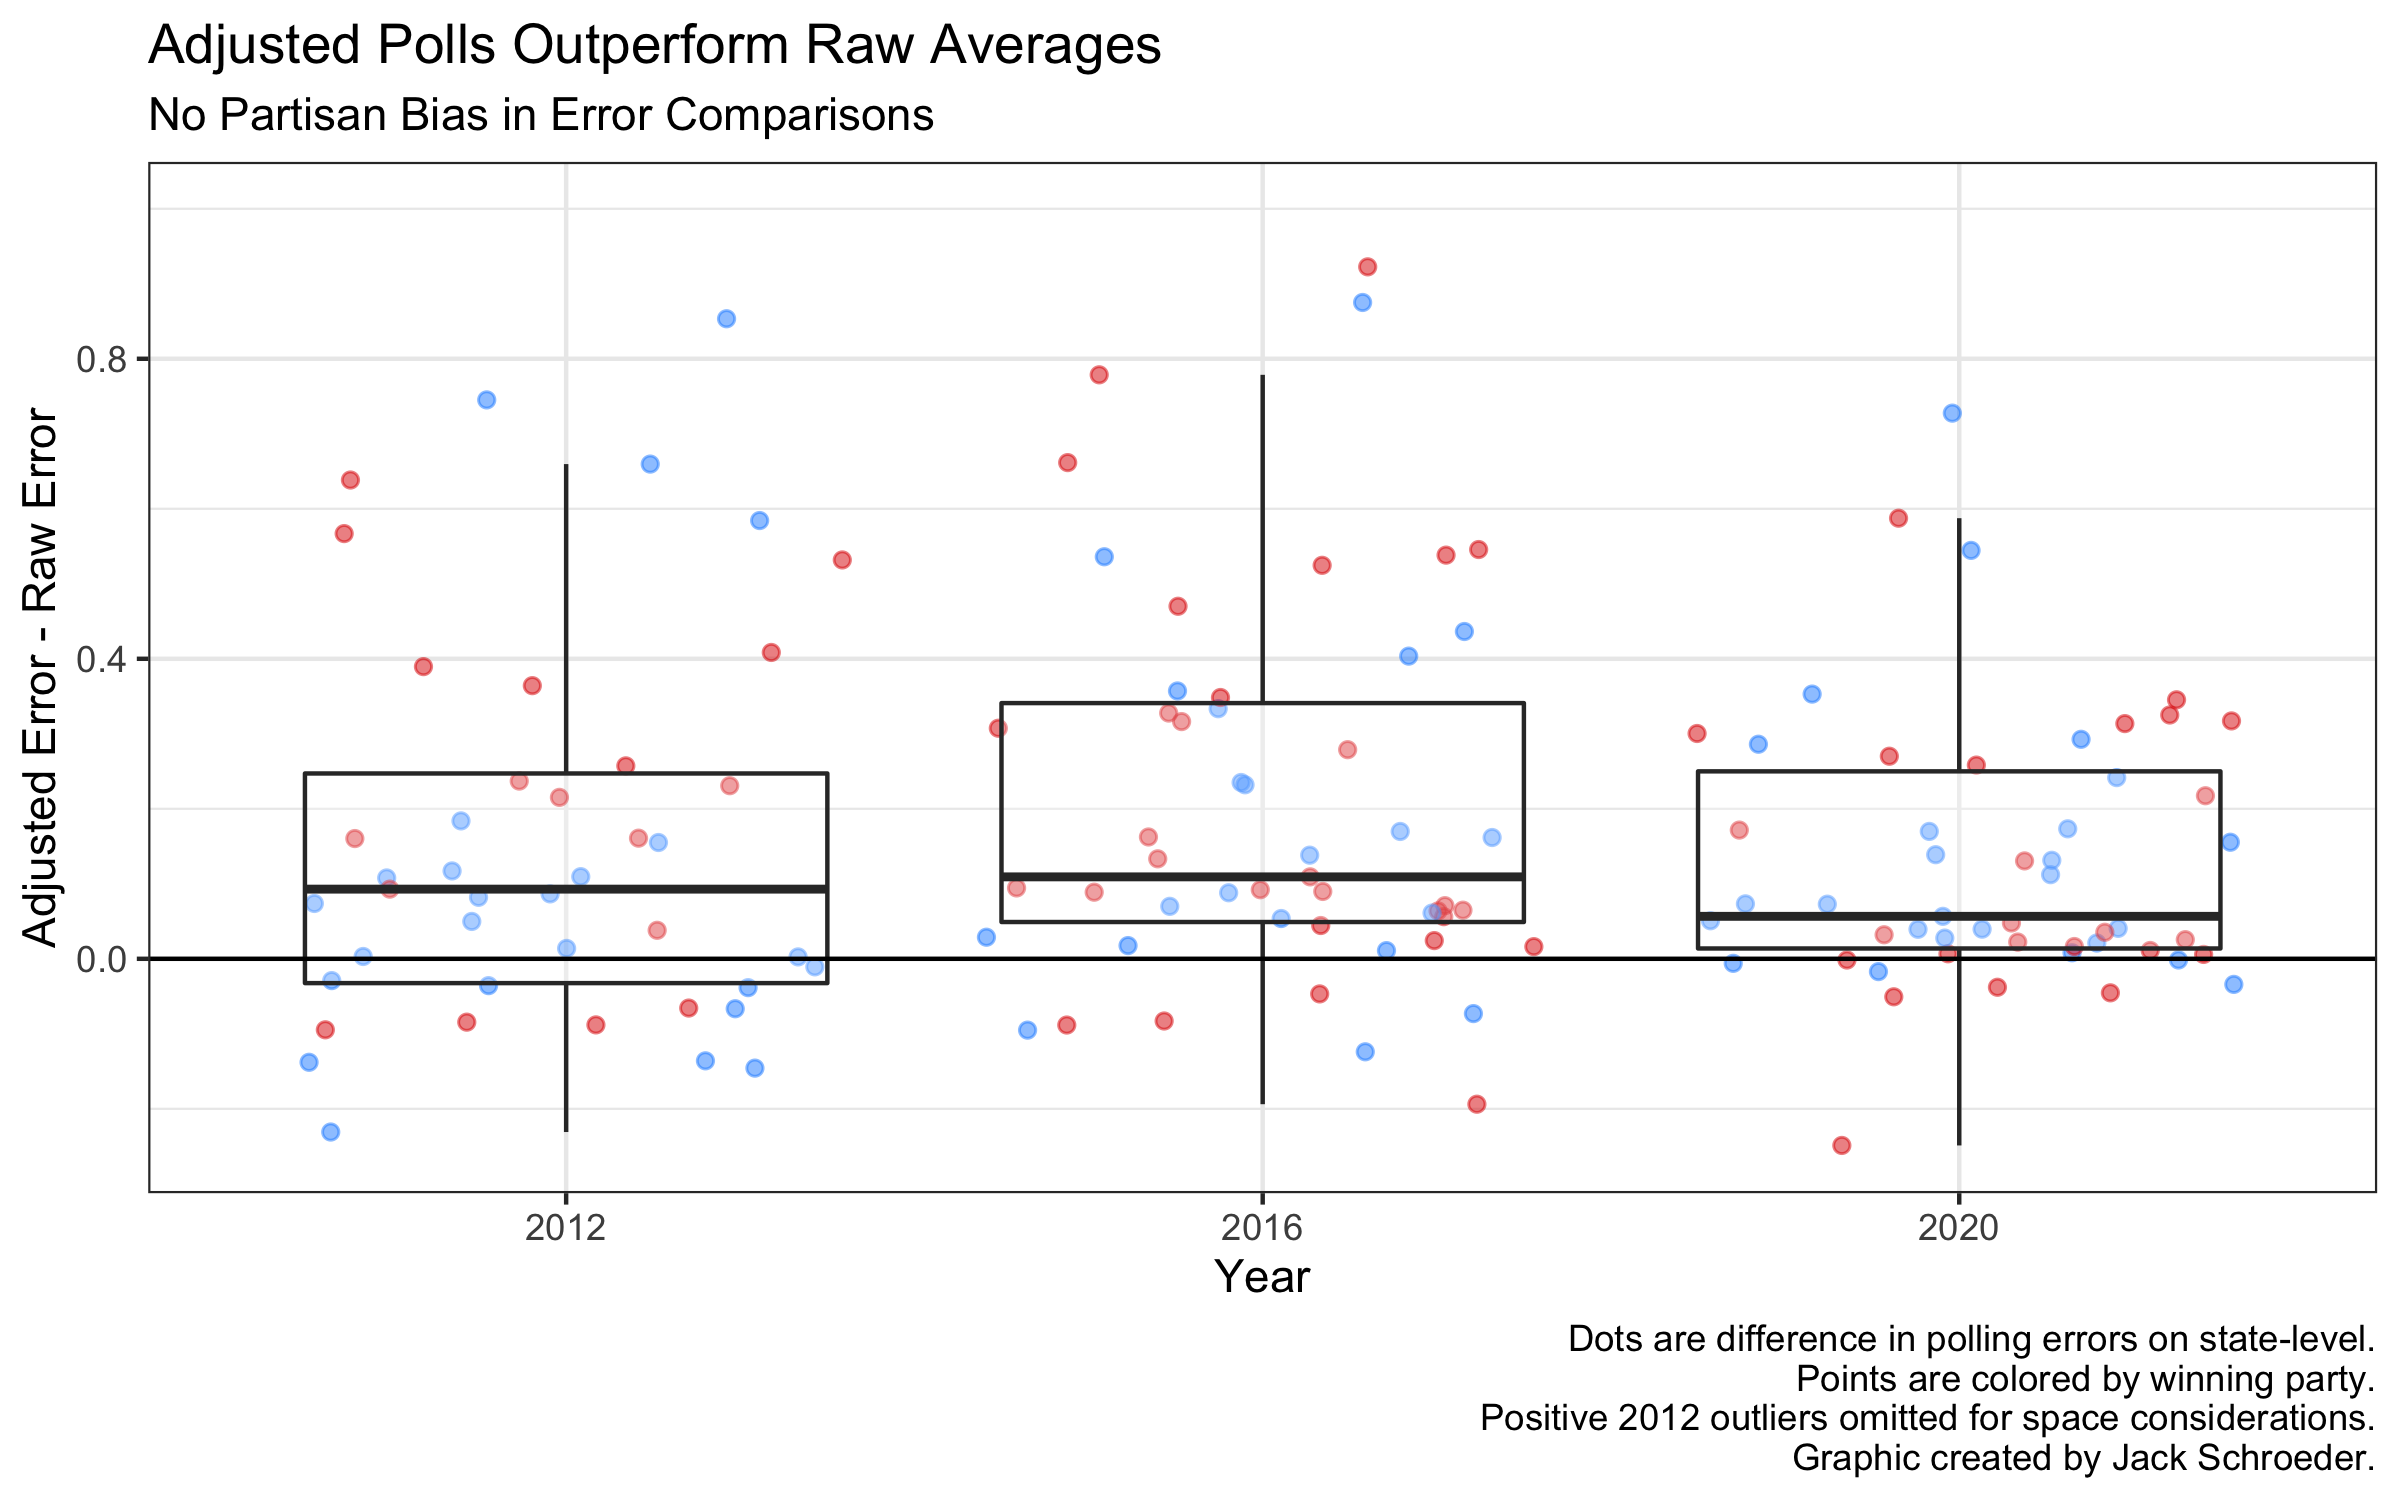
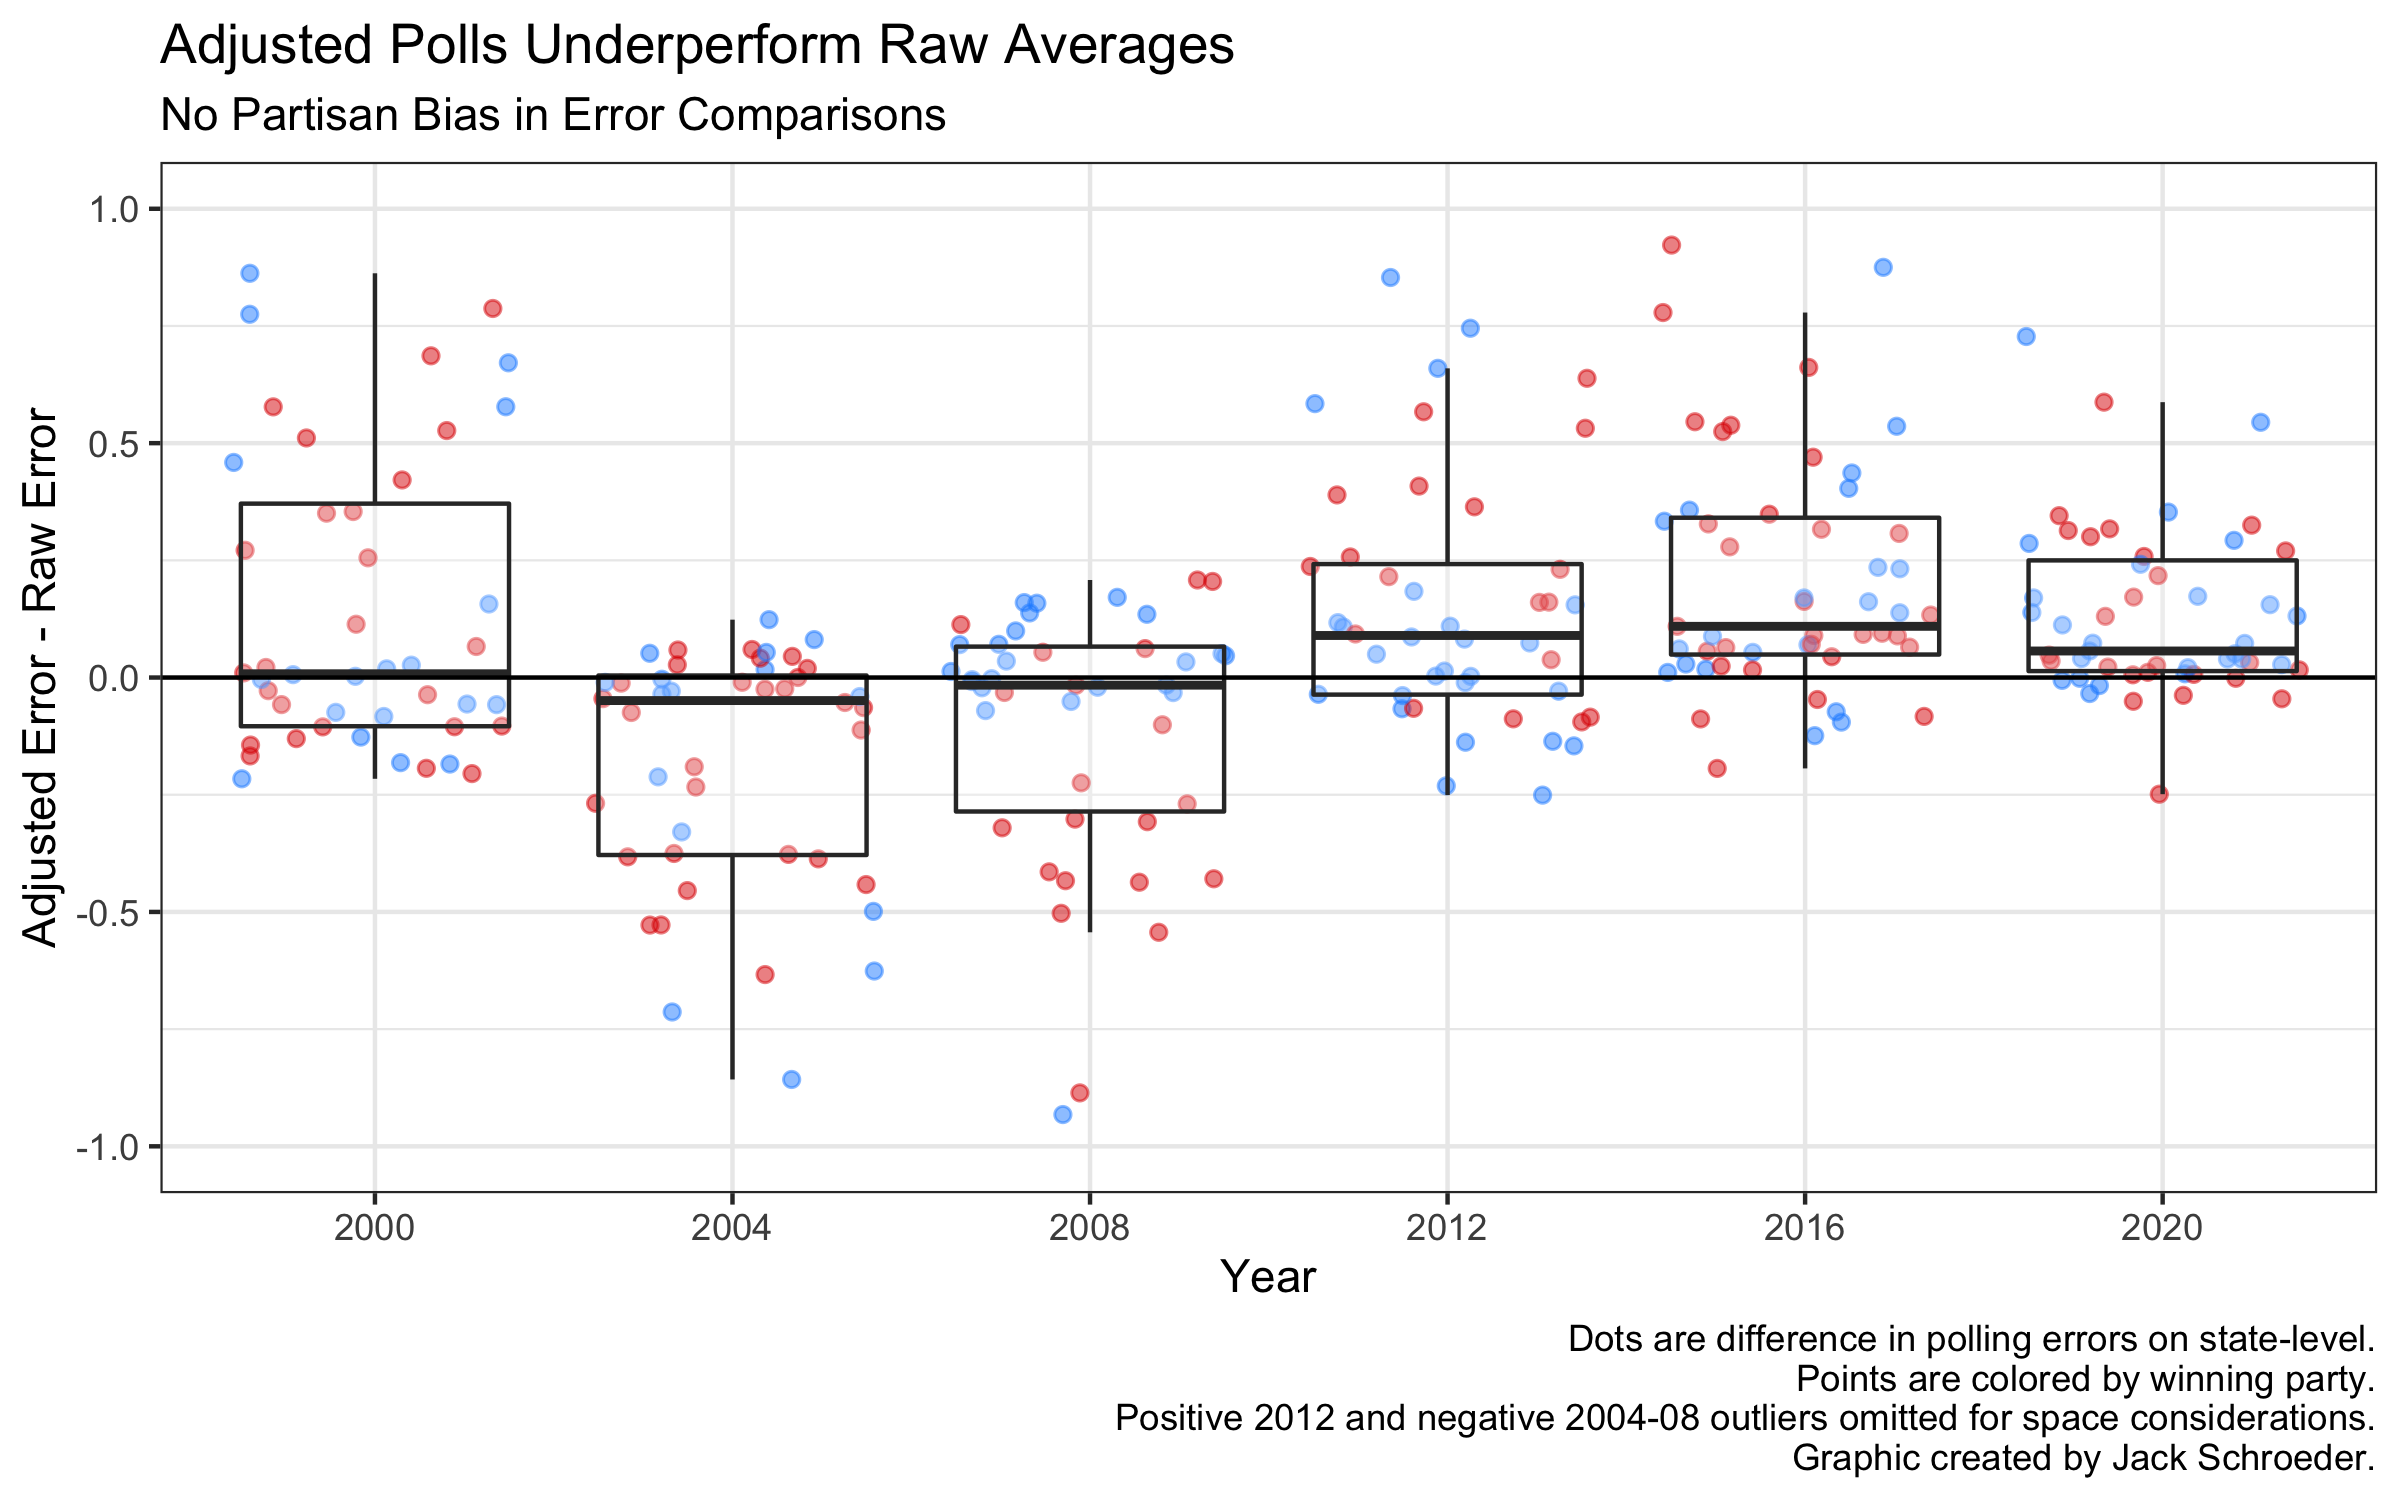
more writing

diff --git a/Posts/narrative.md b/Posts/narrative.md
@@ -62,15 +62,61 @@ For transparency, here is what these tests cannot show:
 
 #### Error Correlation
 
+If pollsters got the same things wrong in 2020 that they did in 2016, both years’ polling error should be correlated. Before calculating that value, though, it’s worth discussing what exactly polling error means.
+
+There are a variety of ways to measure polling error, but I’ll use the one Silver (2018) focuses on: difference between actual margin and poll margin. This definition assumes the stability of a two-party race, which wasn’t entirely true in 2016, but still useful for my purposes. An alternative, comparing polling point estimates with actual results, suffers because polling includes undecided voters, who eventually have to make a choice at the ballot box. As the graph from my final model shows, while the number of undecided voters in polls decreases before election day, they still exist and could distort this alternative measure. That’s why I’ll stick with Silver (2018)’s definition of polling error.
+
+![Undecided Voters](../Plots/undecided.png)
+
+The correlation I got was 0.65: positive but not that strong. Still, there may be something here, so I attempted to map these correlations out. In the visualization below, states are green if absolute polling error was not consistently above 3 points, yellow if absolute polling error in both elections exceeded 3 points, and red if that error was greater than 6 points in both elections.
+
 ![Correlated Error Map](../Plots/error_cor.png)
+
+This gives more information than the simple correlation estimate, but the insights are very nuanced. The polls are currently under fire from many for badly predicting Florida in 2020, but it is a green state because the polling error was manageable in 2016. For our purposes, though, we’re only concerned with states that polls consistently missed in both elections.
+
+21 states are in this green zone. 17 are in the yellow zone, which means polls were off by more than 3 points in both elections. This is reason to worry, but the focus should be on the 13 red states that saw consistent misses of over 6 points.
+
+The red states - ones where pollsters didn’t seem to learn from 2016 - are heavily red and geographically consolidated away from the coasts. While safe blue states (CA, NJ, etc.) are mostly green, these states are Republican strongholds. Could pollsters be failing to fully gauge Trump support in Trump country? This map isn’t indicative by itself - some deep red states like Kansas and Louisiana are green - but it lends support to the take.
+
+What do these maps look like historically? There were *28 green states* between 2012-16 and *35* between 2008-12. Between 2004 and 2008 (both wildly different elections), there were **45 green states**.
+
+This could be a separate phenomenon from pollsters failing to learn from the previous election. Maybe green states are exogenously decreasing because error wobbles from election to election. The next section will test that theory.
 
 #### Regression Significance
 
+To start out, I plotted historical polling error since 2000. I created a boxplot with all of the individual state-level errors in each election. Those boxes measure average statewide error, which may be different from your definition of average polling error.
+
 ![Historical Error](../Plots/error_history.png)
+
+Three things jump out: (1) average polling error was pretty small before a huge jump in 2016, (2) error seemed to jump around, even underestimating Democrats on average in 2008 and 2012, and (3) 2020’s error was similar to 2016’s.
+
+That third point is the most important to the narrative. If pollsters got the same things wrong in 2020, we should expect not just similar errors but that the previous errors can help explain future results.
+
+As the table below indicates, including past error in a simple model didn’t help boost explanatory power before 2016. But using 2016’s error to help predict 2020 was immensely useful, boosting the adjusted r-squared of the model by almost 4 points.
+
+![Regression Table](../Plots/errortable.png)
+
+Why is there a significant boost? Go back to the graph: 2016 and 2020’s errors are very close. The regression comparisons tell us that the similarity in average state error seems to be helping on the individual state level as well.
+
+What does this mean? Preliminarily, this supports the polling skeptics. For all the boasting of fixing polls by weighing education documented by Skelley and Rakich (2020), the errors from both elections do seem to be fairly similar.
+
+This isn’t fair to Skelley and Rakich, though, who work at *FiveThirtyEight*. Their jobs are to be skeptical of polling and try to account for error through their models. Just how well those models account for polling error is the focus of the next section.
 
 #### Model Adjustments
 
+The reason election models are necessary is because polls will inevitably be off. As mentioned above, modelers include other variables to counteract polling error. Some modelers, though, try and adjust the polls before adding these other variables. *FiveThirtyEight* does this through their raw and adjusted polling averages.
+
+I wanted to see if these adjusted averages outperformed their raw counterparts. To do this, I subtracted raw polling error from adjusted polling error for each election this century. A negative difference means the adjusted error outperformed raw error (which is good for *FiveThirtyEight*), and vice versa with positive differences.
+
 ![Raw vs Adjusted Polls](../Plots/adjustedpolls.png)
+
+The adjusted averages do well until 2012, where they stop beating the raw errors. Why? Since *FiveThirtyEight* wasn’t around before 2008, the poll adjustments before that election were most likely done after-the-fact, and the adjustments themselves were probably trained on those results. They should be performing well.
+
+For the last three elections, though, it’s possible that the adjustments were created before results were known and not fitted afterward. Another possibility is that the adjusted averages are adjusted even more through the modeling process.
+
+What does this mean for the take? The purpose of comparing these averages was to see if modelers seemed to learn to account for polling error. On a whole, *FiveThirtyEight*’s model did better this cycle - correctly predicting the winner helps in that regard - but this test is inconclusive. If 2020 and 2016 were outliers in the adjusted error failing to beat the raw error, there could be reason to probe this further. But since 2012 also saw the raw averages beat out the adjusted ones, there’s no support for modelers failing to have learned from 2016.
+
+There’s one final thing to check in the polls, though, and that’s whether they made the same mistakes within two weeks in both cycles.
 
 #### Time Sensitivity
 
@@ -80,10 +126,6 @@ For transparency, here is what these tests cannot show:
 
 ### References
 
-Druke, G. and Silver, N. (2020, Nov. 12). “How the pandemic might have affected the polls in 2020.” *FiveThirtyEight*. Accessed online.
+Silver, N. (2018, May 30). “The polls are all right." *FiveThirtyEight*. Accessed online.
 
-Jacobson, L. (2020, Nov. 1). "Why is 2020 not like 2016? Fewer undecideds, for one." *The Tampa Bay Times*. Accessed online.
-
-Rodden, J. (2019). *Why cities lose: The deep roots of the urban-rural political divide.* Basic Books.
-
-Silver, N. (2020, Oct. 31). "Trump can still win, but the polls would have to be off by way more than in 2016." *FiveThirtyEight*. Accessed online.
+Skelley, G., and Rakich, N. (2020, Oct. 13). “What pollsters have changed since 2016 - and what still worries them about 2020.” *FiveThirtyEight*. Accessed online.
